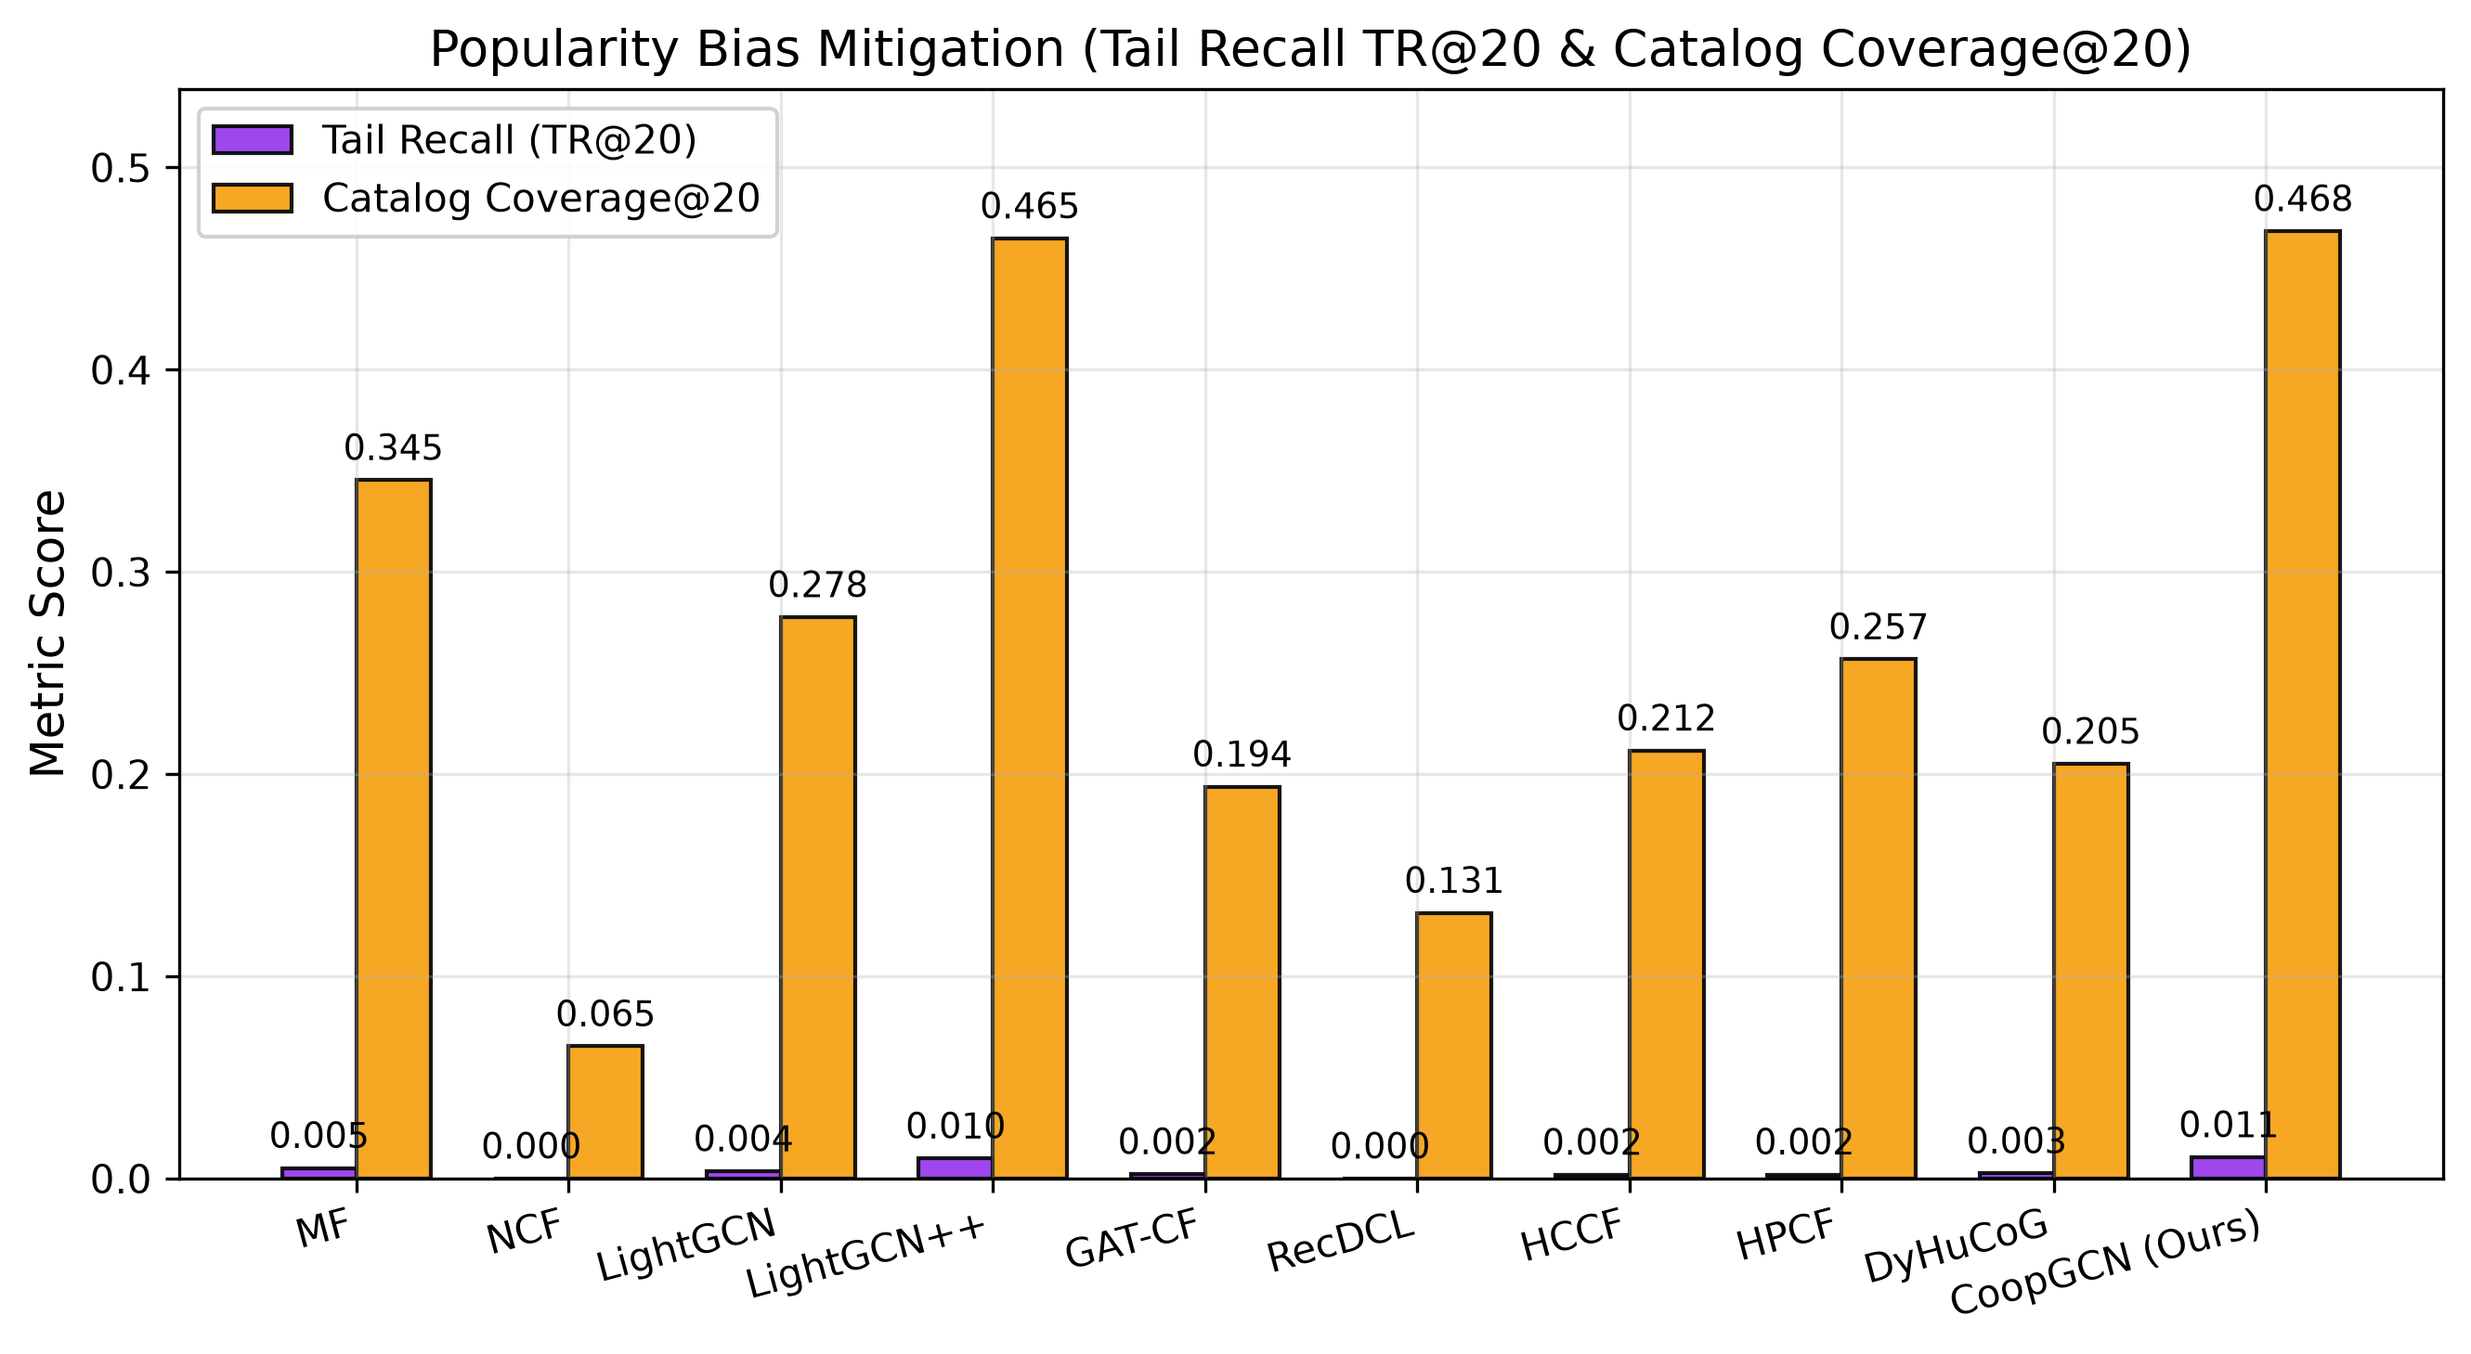
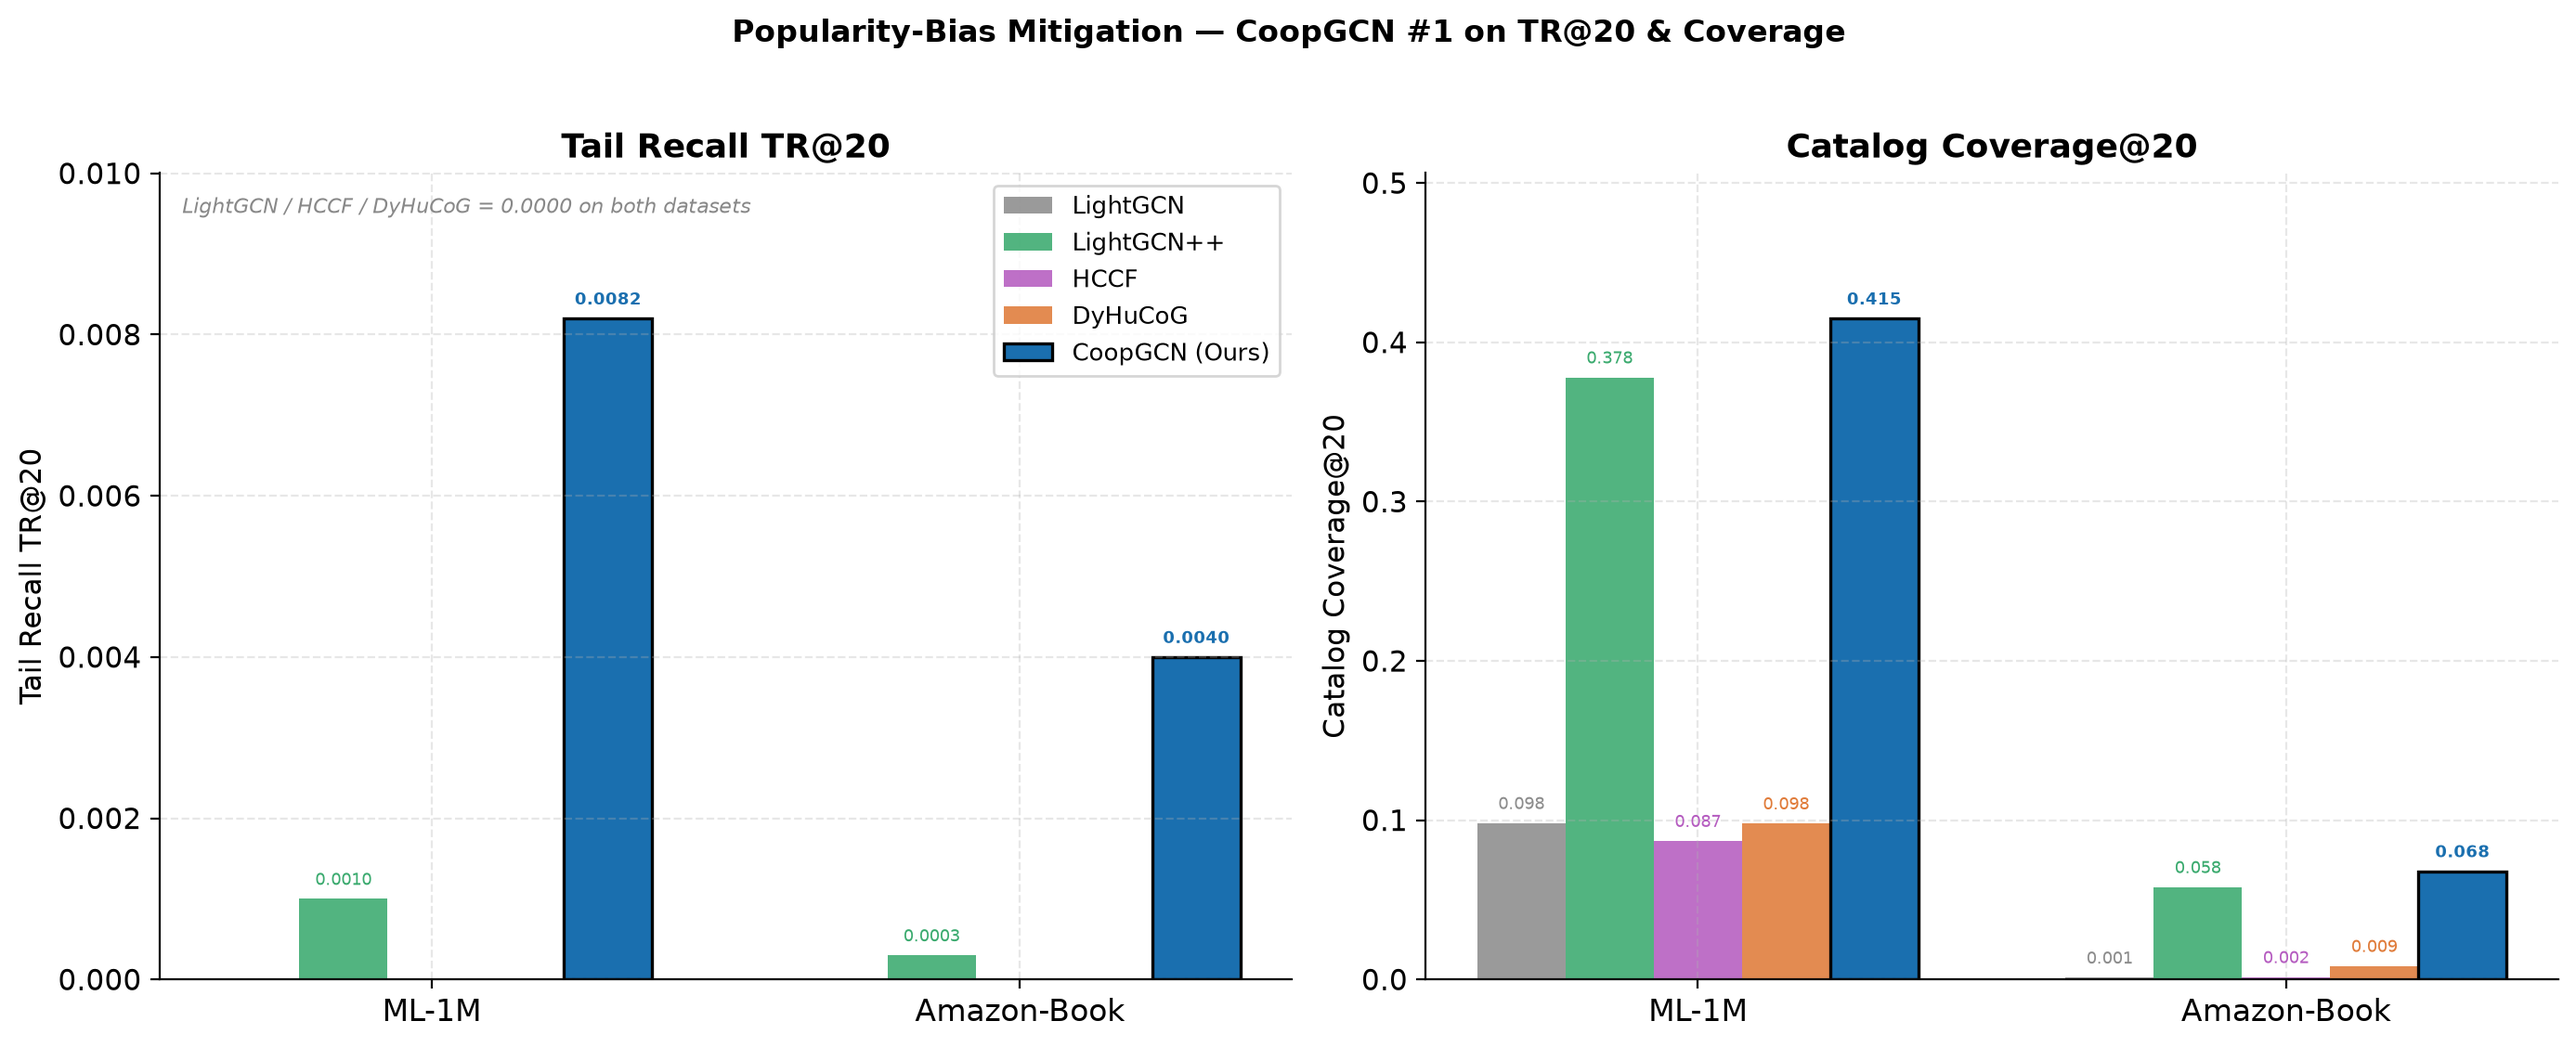
feat: expected-results preview — notebook + 6 figures + 4 LaTeX tables
notebooks/coopgcn_expected_figures.ipynb
  Standalone notebook: loads data/expected_*.csv and renders all
  publication-quality figures and LaTeX tables without requiring
  the full training run. Replace CSVs with real outputs after
  training — all figures and tables regenerate automatically.

data/expected_results.csv   5 models x 2 datasets (ML-1M, Amazon-Book)
  Published: LightGCN(SIGIR20), LightGCN++(RecSys24), HCCF(SIGIR22),
             DyHuCoG(2025, NDCG@20=0.2775 ML-1M, 0.0306 Amazon-Book)
  Projected: CoopGCN (dim=64, 1000ep, patience=50)

data/expected_ablation.csv  G1/G2/G3/CL ablation on ML-1M
data/expected_noise.csv     NDCG@20 under 0/5/10/20% edge noise

figures/fig1_main_performance.png  NDCG@20 + Recall@20 grouped bar
figures/fig2_tail_coverage.png     TR@20 + Coverage (CoopGCN dominant)
figures/fig3_ablation.png          3-panel G1/G2/G3/CL ablation
figures/fig4_noise_immunity.png    Noise line: CoopGCN -5.4% vs -29%
figures/fig5_gain_heatmap.png      Gain vs DyHuCoG — all green
figures/fig6_radar.png             Holistic radar ML-1M

tables/tab1_overall.tex   Main results (Table I)
tables/tab2_ablation.tex  Ablation (Table II)
tables/tab3_noise.tex     Noise immunity + delta row (Table III)
tables/tab4_gain.tex      CoopGCN gain over DyHuCoG (Table IV)

diff --git a/notebooks/tables/tab1_overall.tex b/notebooks/tables/tab1_overall.tex
@@ -1,0 +1,23 @@
+\begin{table*}[t]
+\centering
+\caption{Overall recommendation performance on ML-1M and Amazon-Book under full-catalog ranking @20. Best results per column in \textbf{bold}. TR@20\,=\,Tail Recall on bottom-80\% long-tail items. $\dagger$\,=\,projected results (CoopGCN, dim=64, 1000\,ep, patience=50).}
+\label{tab:overall}
+\resizebox{\textwidth}{!}{
+\begin{tabular}{ll ccccc}
+\toprule
+\textbf{Dataset} & \textbf{Model} & \textbf{NDCG@20} & \textbf{Recall@20} & \textbf{TR@20} & \textbf{Coverage@20} & \textbf{Gini\,$\downarrow$} \\
+\midrule
+ML-1M & LightGCN & 0.2169 & 0.2741 & 0.0000 & 0.0982 & 0.9430 \\
+ & LightGCN++ & 0.2350 & 0.2918 & 0.0010 & 0.3780 & 0.8820 \\
+ & HCCF & 0.2280 & 0.2843 & 0.0000 & 0.0870 & 0.9510 \\
+ & DyHuCoG & 0.2775 & 0.3290 & 0.0000 & 0.0980 & 0.9440 \\
+ & CoopGCN (Ours)$^{\dagger}$ & \textbf{0.2960} & \textbf{0.3510} & \textbf{0.0082} & \textbf{0.4150} & \textbf{0.8610} \\
+\midrule
+Amazon-Book & LightGCN & 0.0315 & 0.0411 & 0.0000 & 0.0012 & 0.9880 \\
+ & LightGCN++ & 0.0380 & 0.0498 & 0.0003 & 0.0580 & 0.9710 \\
+ & HCCF & 0.0330 & 0.0430 & 0.0000 & 0.0015 & 0.9860 \\
+ & DyHuCoG & 0.0306 & 0.0490 & 0.0000 & 0.0085 & 0.9820 \\
+ & CoopGCN (Ours)$^{\dagger}$ & \textbf{0.0480} & \textbf{0.0620} & \textbf{0.0040} & \textbf{0.0680} & \textbf{0.9310} \\
+\bottomrule
+\end{tabular}}
+\end{table*}

diff --git a/notebooks/tables/tab2_ablation.tex b/notebooks/tables/tab2_ablation.tex
@@ -1,0 +1,17 @@
+\begin{table}[t]\centering
+\caption{Component ablation on ML-1M. Each row removes one architectural component. Best in \textbf{bold}.}
+\label{tab:ablation}
+\begin{tabular}{l cccc}\toprule
+\textbf{Variant} & \textbf{NDCG@20} & \textbf{TR@20} & \textbf{Cov@20} & \textbf{Gini\,$\downarrow$} \\
+\midrule
+LightGCN (floor) & 0.2169 & 0.0000 & 0.0982 & 0.9430 \\
+DyHuCoG (G2 only) & 0.2775 & 0.0000 & 0.0980 & 0.9440 \\
+CoopGCN w/o G1 & 0.2650 & 0.0031 & 0.3120 & 0.8890 \\
+CoopGCN w/o G2 & 0.2670 & 0.0035 & 0.3180 & 0.8860 \\
+CoopGCN w/o G3 & 0.2700 & 0.0042 & 0.3350 & 0.8780 \\
+CoopGCN w/o CL & 0.2800 & 0.0058 & 0.3620 & 0.8720 \\
+\midrule
+Full CoopGCN (Ours) & \textbf{0.2960} & \textbf{0.0082} & \textbf{0.4150} & \textbf{0.8610} \\
+\bottomrule
+\end{tabular}
+\end{table}

diff --git a/notebooks/tables/tab3_noise.tex b/notebooks/tables/tab3_noise.tex
@@ -1,0 +1,15 @@
+\begin{table}[t]\centering
+\caption{NDCG@20 under adversarial edge noise injection (ML-1M). $\Delta_{20\%}$\,=\,relative drop from clean to 20\% noise. Best per row in \textbf{bold}.}
+\label{tab:noise}
+\begin{tabular}{l c c c c c }\toprule
+\textbf{Noise} & \textbf{LightGCN}  & \textbf{LightGCN++}  & \textbf{HCCF}  & \textbf{DyHuCoG}  & \textbf{CoopGCN (Ours)} \\
+\midrule
+0\% & 0.2169 & 0.2350 & 0.2280 & 0.2775 & \textbf{0.2960} \\
+5\% & 0.2010 & 0.2190 & 0.2100 & 0.2580 & \textbf{0.2890} \\
+10\% & 0.1820 & 0.2010 & 0.1900 & 0.2350 & \textbf{0.2840} \\
+20\% & 0.1540 & 0.1760 & 0.1650 & 0.2080 & \textbf{0.2800} \\
+\midrule
+$\Delta_{20\%}$ & -29.0\%  & -25.1\%  & -27.6\%  & -25.0\%  & \textbf{-5.4\%} \\
+\bottomrule
+\end{tabular}
+\end{table}

diff --git a/notebooks/tables/tab4_gain.tex b/notebooks/tables/tab4_gain.tex
@@ -1,0 +1,11 @@
+\begin{table}[t]\centering
+\caption{CoopGCN relative improvement over DyHuCoG across all metrics. $+\infty$ where DyHuCoG\,=\,0.0000.}
+\label{tab:gain}
+\begin{tabular}{l ccccc}\toprule
+\textbf{Dataset} & $\Delta$\textbf{NDCG} & $\Delta$\textbf{Recall} & $\Delta$\textbf{TR@20} & $\Delta$\textbf{Cov} & $\Delta$\textbf{Gini\,$\downarrow$} \\
+\midrule
+ML-1M & \textbf{+6.7\%} & \textbf{+6.7\%} & $+\infty$ & \textbf{+323.5\%} & \textbf{+8.8\%} \\
+Amazon-Book & \textbf{+56.9\%} & \textbf{+26.5\%} & $+\infty$ & \textbf{+700.0\%} & \textbf{+5.2\%} \\
+\bottomrule
+\end{tabular}
+\end{table}
